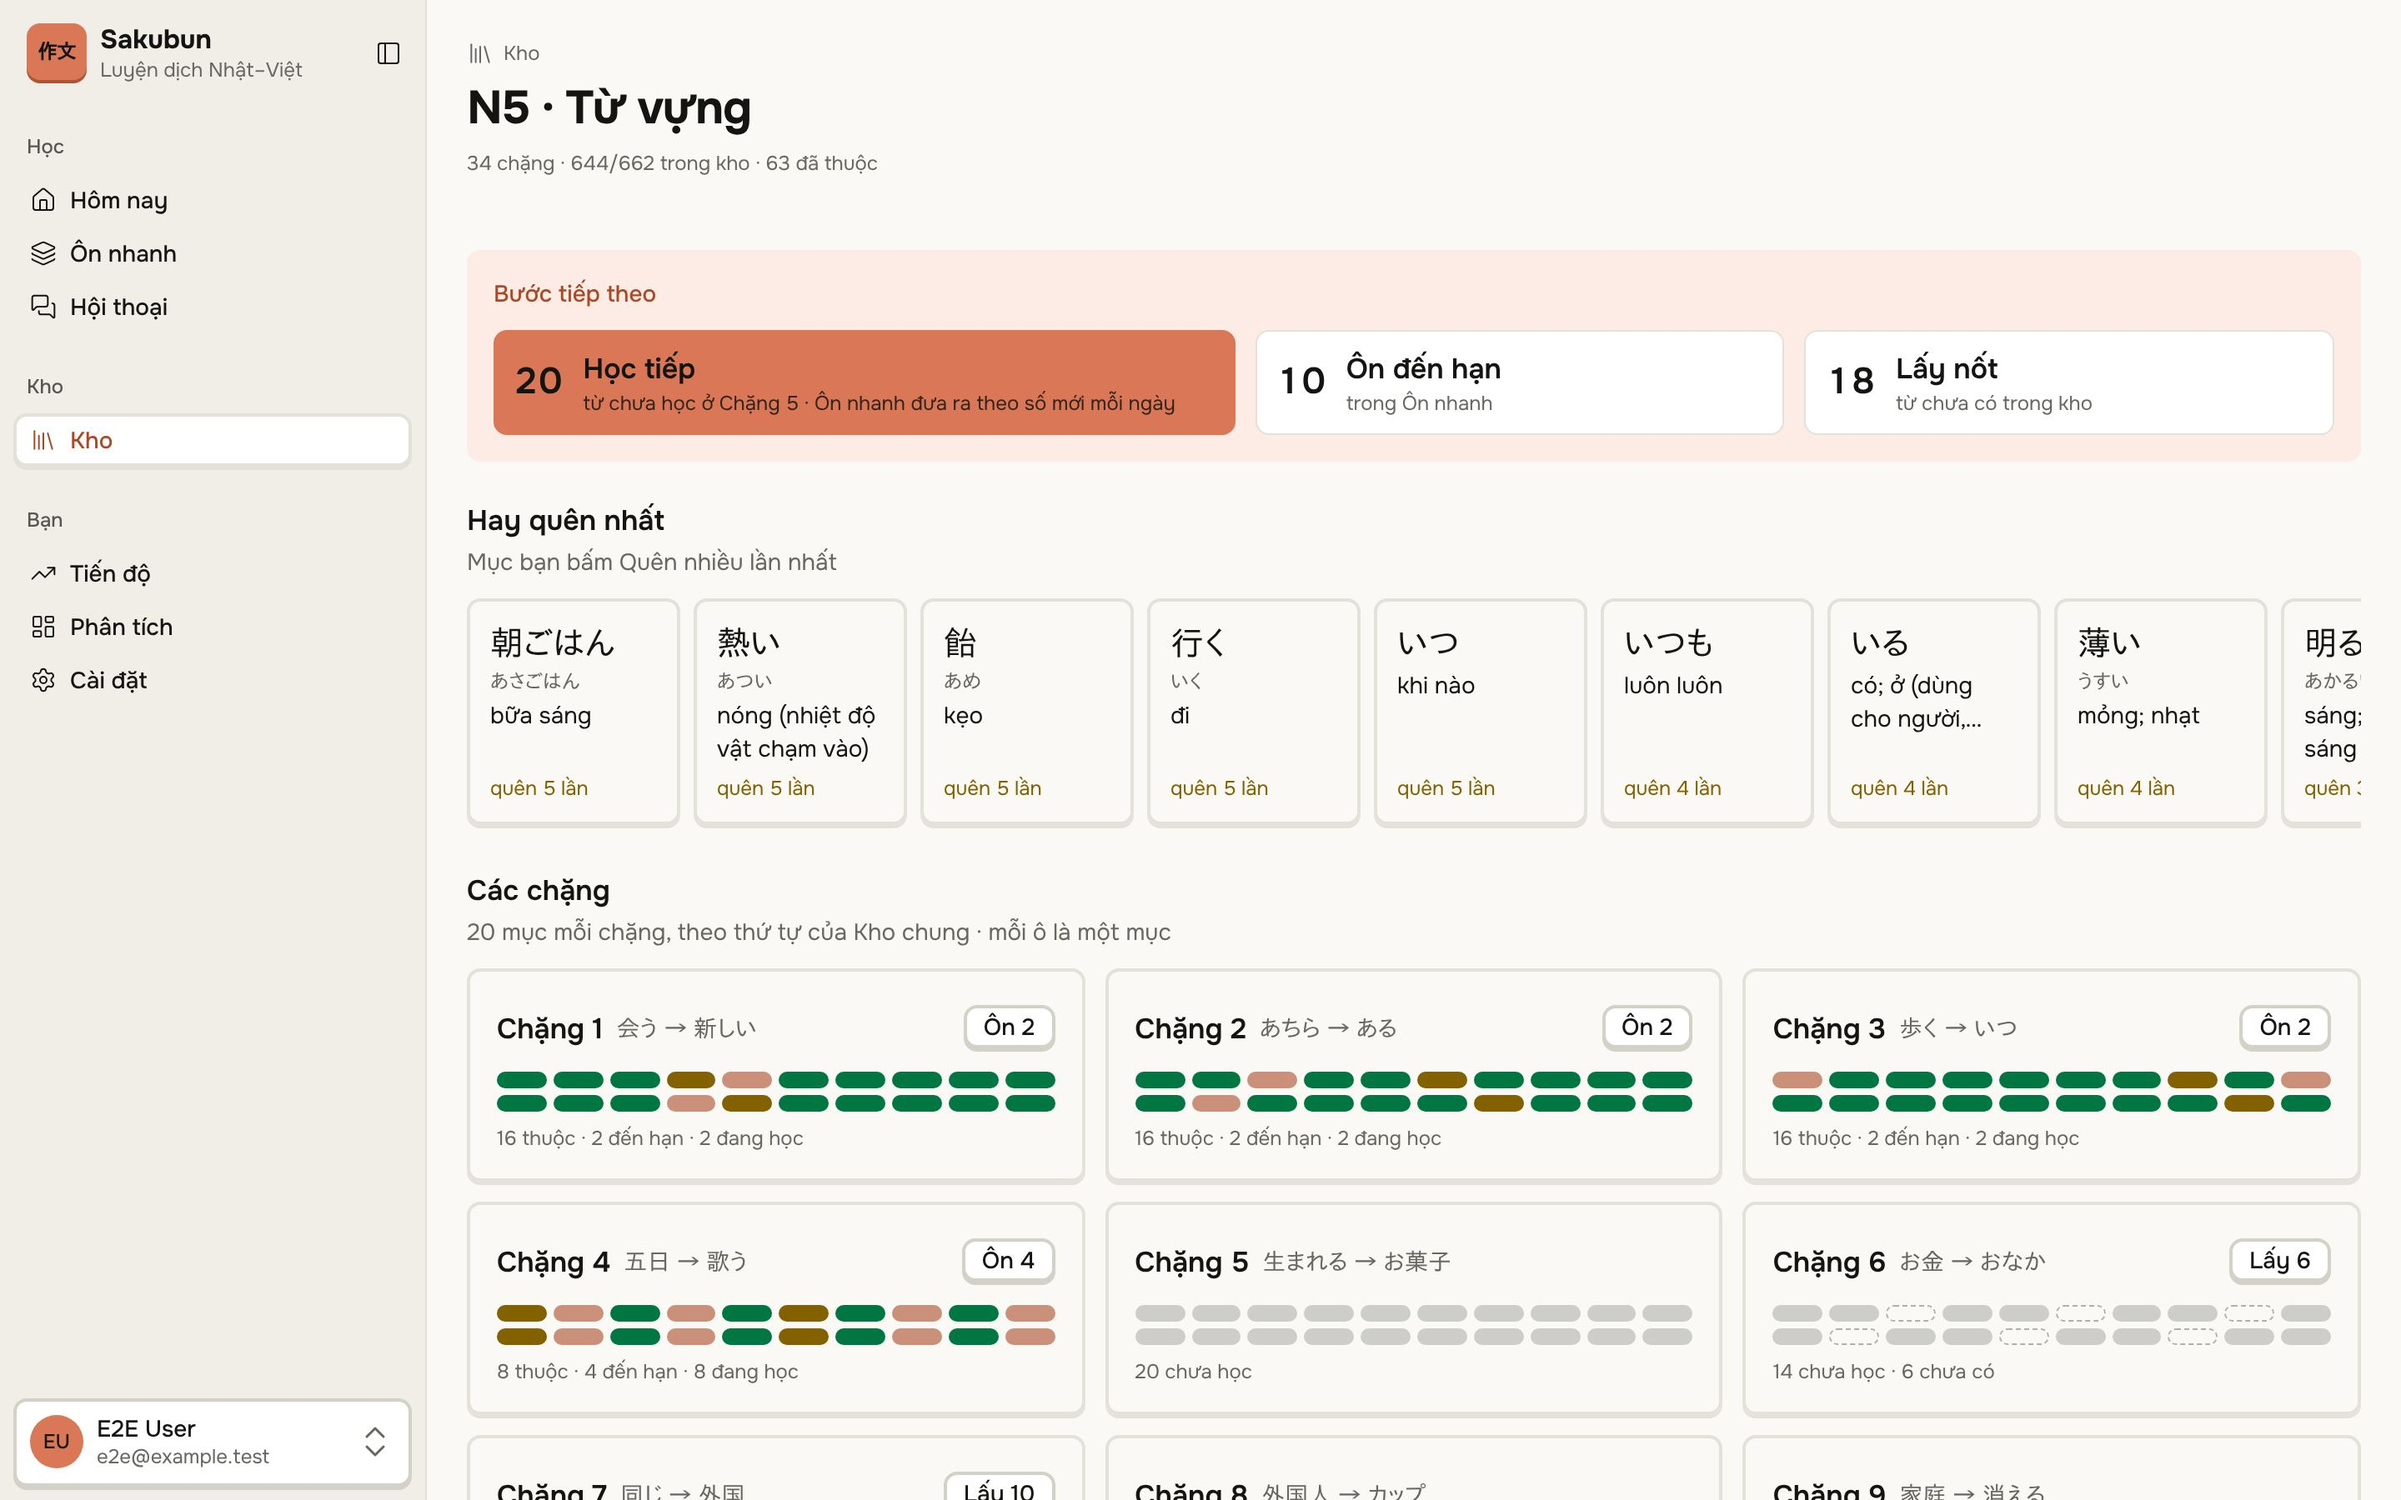
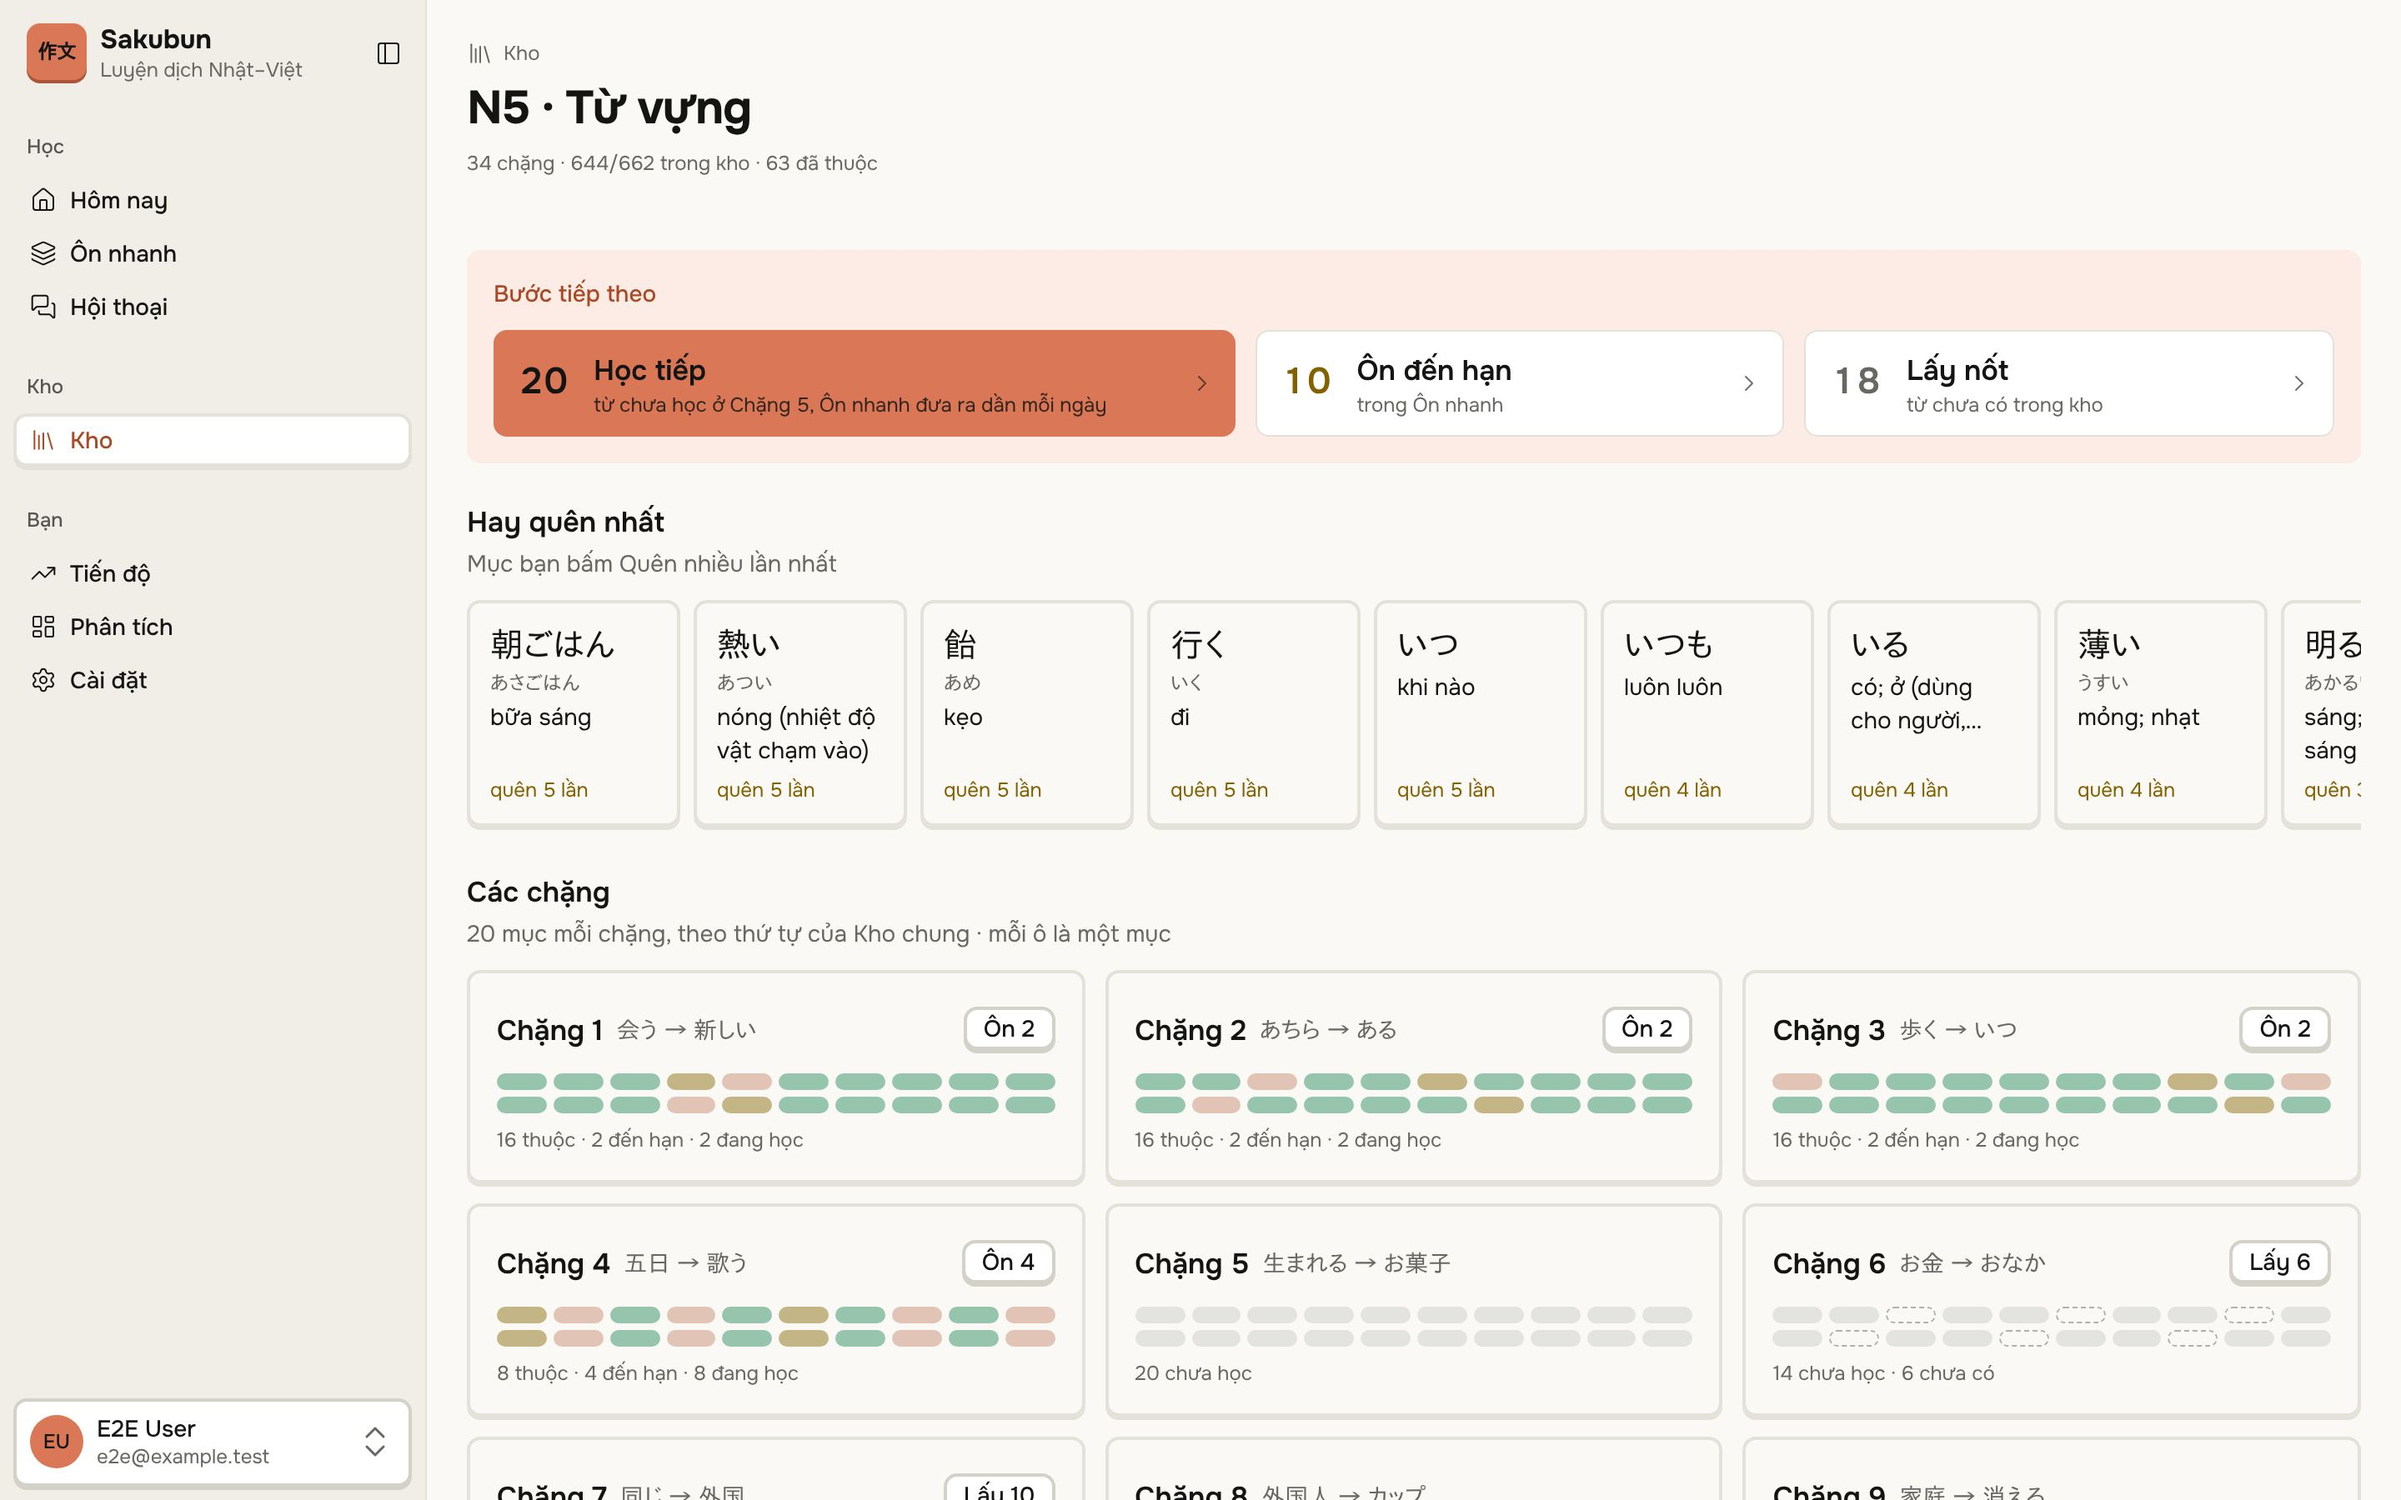
fix(u4c2): calmer next-step tiles and pale set marks
thien's review of round 1: the next-step tiles looked off and the solid
mark colours were too heavy. Tiles now share one height, colour the number
by what it counts, keep the hint short and show an arrow when they lead
somewhere; marks use pale tints. Round 2 screenshots in the plan folder.

Claude-Nick: tnt628

Claude-Session: https://claude.ai/code/session_01LiS5XqjsttK1frQK4s6NyV

diff --git a/components/features/resources/level-sets-view.tsx b/components/features/resources/level-sets-view.tsx
@@ -1,4 +1,5 @@
 import Link from 'next/link';
+import { ChevronRight } from 'lucide-react';
 import { PageShell } from '@/components/layout/page-shell';
 import { ParentCrumbs } from '@/components/layout/app-breadcrumbs';
 import { LeadPanel } from '@/components/common/lead-panel';
@@ -19,11 +20,12 @@ import { cn } from '@/lib/core/utils';
 // next, the words forgotten most, then the level cut into sets of 20 with a mark per word.
 
 // One mark per state, read with the summary line under it (the colour alone says nothing).
+// Pale tints (thien, 18/11: solid colours were too heavy).
 const MARK: Record<WordState, string> = {
-  mastered: 'bg-ok',
-  learning: 'bg-accent-brand/60',
-  due: 'bg-warn',
-  new: 'bg-muted-foreground/30',
+  mastered: 'bg-ok/40',
+  learning: 'bg-accent-brand/30',
+  due: 'bg-warn/45',
+  new: 'bg-muted-foreground/15',
   none: 'border border-dashed border-muted-foreground/50',
   paused: 'bg-muted',
 };
@@ -51,9 +53,9 @@ export function LevelSetsView({ sets, ctx }: { sets: LevelSets; ctx: LevelContex
         <LeadPanel aria-label="Bước tiếp theo" className="p-4 md:p-4">
           <p className="text-sm font-medium text-accent-brand">Bước tiếp theo</p>
           <div className="mt-3 grid grid-cols-2 gap-2 md:grid-cols-[1.4fr_1fr_1fr] md:gap-3">
-            <ActionTile action={lead.main} primary className="col-span-2 md:col-span-1" />
-            <ActionTile action={lead.due} />
-            <ActionTile action={lead.take} />
+            <ActionTile action={lead.main} tone="primary" className="col-span-2 md:col-span-1" />
+            <ActionTile action={lead.due} tone="warn" />
+            <ActionTile action={lead.take} tone="plain" />
           </div>
         </LeadPanel>
 
@@ -83,42 +85,64 @@ export function LevelSetsView({ sets, ctx }: { sets: LevelSets; ctx: LevelContex
   );
 }
 
+// The number takes the tile's colour: white on the main tile, gold for what is due, grey for what
+// is missing (the combined sketch, u4c-r2/combo-level.jpg). A tile with nothing to do is greyed out.
+const NUMBER = {
+  primary: '',
+  warn: 'text-warn',
+  plain: 'text-muted-foreground',
+} as const;
+
 function ActionTile({
   action,
-  primary = false,
+  tone,
   className,
 }: {
   action: LevelAction;
-  primary?: boolean;
+  tone: keyof typeof NUMBER;
   className?: string;
 }) {
+  const live = action.href !== null;
+  const primary = tone === 'primary' && live;
   const body = (
     <>
       {action.count !== null && (
-        <span className="text-title3 font-semibold tabular-nums md:text-title2">
+        <span
+          className={cn(
+            'min-w-7 shrink-0 text-center text-title3 font-semibold tabular-nums md:min-w-9 md:text-title2',
+            live ? NUMBER[tone] : 'text-muted-foreground',
+          )}
+        >
           {action.count}
         </span>
       )}
-      <span className="flex min-w-0 flex-col">
-        <span className="font-semibold">{action.label}</span>
+      <span className="flex min-w-0 flex-1 flex-col">
+        <span className={cn('font-semibold', !live && 'text-muted-foreground')}>
+          {action.label}
+        </span>
         <span
           className={cn(
-            'text-xs',
-            primary && action.href ? 'text-primary-foreground/85' : 'text-muted-foreground',
+            'text-xs md:truncate',
+            primary ? 'text-primary-foreground/85' : 'text-muted-foreground',
           )}
         >
           {action.hint}
         </span>
       </span>
+      {live && (
+        <ChevronRight
+          className={cn('size-4 shrink-0 opacity-60', !primary && 'max-md:hidden')}
+          aria-hidden
+        />
+      )}
     </>
   );
   const box =
-    'flex min-h-14 items-center gap-2 rounded-lg px-3 md:gap-3 py-2.5 focus-visible:outline-2 focus-visible:outline-offset-2 focus-visible:outline-ring';
-  if (!action.href)
-    return <div className={cn(box, 'border border-border bg-card', className)}>{body}</div>;
+    'flex min-h-16 items-center gap-2 rounded-lg px-3 py-2 md:gap-3 focus-visible:outline-2 focus-visible:outline-offset-2 focus-visible:outline-ring';
+  if (!live) return <div className={cn(box, 'border border-border/60', className)}>{body}</div>;
   return (
     <Link
-      href={action.href}
+      href={action.href!}
       className={cn(
         box,
         'transition-colors',

diff --git a/lib/library/level-screen.ts b/lib/library/level-screen.ts
@@ -66,7 +66,7 @@ function mainAction(
     return {
       label: 'Học tiếp',
       // The set's own count, not the level's: the number reads with "Chặng N" beside it.
-      hint: `${unit} chưa học ở Chặng ${next.set} · Ôn nhanh đưa ra theo số mới mỗi ngày`,
+      hint: `${unit} chưa học ở Chặng ${next.set}, Ôn nhanh đưa ra dần mỗi ngày`,
       count: next.count,
       href: REVIEW_HREF,
     };
@@ -74,7 +74,7 @@ function mainAction(
   if (next?.kind === 'study') {
     return {
       label: 'Học cấp này',
-      hint: `Ôn nhanh đang lấy ${unit} mới từ ${ctx.studyLevel}; đổi cấp đang học trong Cài đặt`,
+      hint: `Ôn nhanh đang lấy ${unit} mới từ ${ctx.studyLevel}, đổi trong Cài đặt`,
       count: counts.new,
       href: STUDY_LEVEL_HREF,
     };

diff --git a/docs/plans/2026-11-14-u4-kho.md b/docs/plans/2026-11-14-u4-kho.md
@@ -8,7 +8,7 @@ Tick khi có bằng chứng; đổi bước thì ghi vào "Đã đổi"; lỗi t
 
 ## Đang ở đâu
 
-- Đang ở: U4c1 xong (#325, 18/11); U4c2 (màn cấp) code xong ở #331, chờ thien duyệt ảnh.
+- Đang ở: U4c1 xong (#325, 18/11); U4c2 (màn cấp) ở #331: thien OK vòng 1, chờ duyệt vòng 2 (sửa ô Bước tiếp theo, vạch nhạt).
 - Còn thiếu: U4c2–U4f; U4g, U4h để sau kỳ thi N2.
 - thien cần làm: không có.
 
@@ -202,6 +202,10 @@ U4c2 (18/11): trang duyệt ảnh đăng lại bằng
 `out/publish.json`. Ảnh là app thật: chép `mock/u4c-shots.spec.ts.txt` làm mẫu, đăng nhập tài khoản e2e, lấy N5 từ Hôm
 nay, sửa trạng thái thẻ theo chặng (1–4 đã học, 5 mới, 6–7 thiếu vài từ), chụp `/resources/level/N5/vocab` và
 `/resources/level/N4/grammar` ở 1440 và 390, `deviceScaleFactor: 2`.
+
+U4c2 vòng 1 (18/11): thien OK cả 4 màn, kèm hai góp ý: ô Bước tiếp theo "chưa ổn lắm", vạch màu của chặng nên nhạt
+hơn. Đã sửa (số có màu theo việc, chữ phụ ngắn, mũi tên; vạch tông nhạt). Vòng 2 dựng lại từ `u4c2/round-2.json`
+(`r1-*.jpg` là ảnh vòng 1).
 
 ## Đã đổi
 
